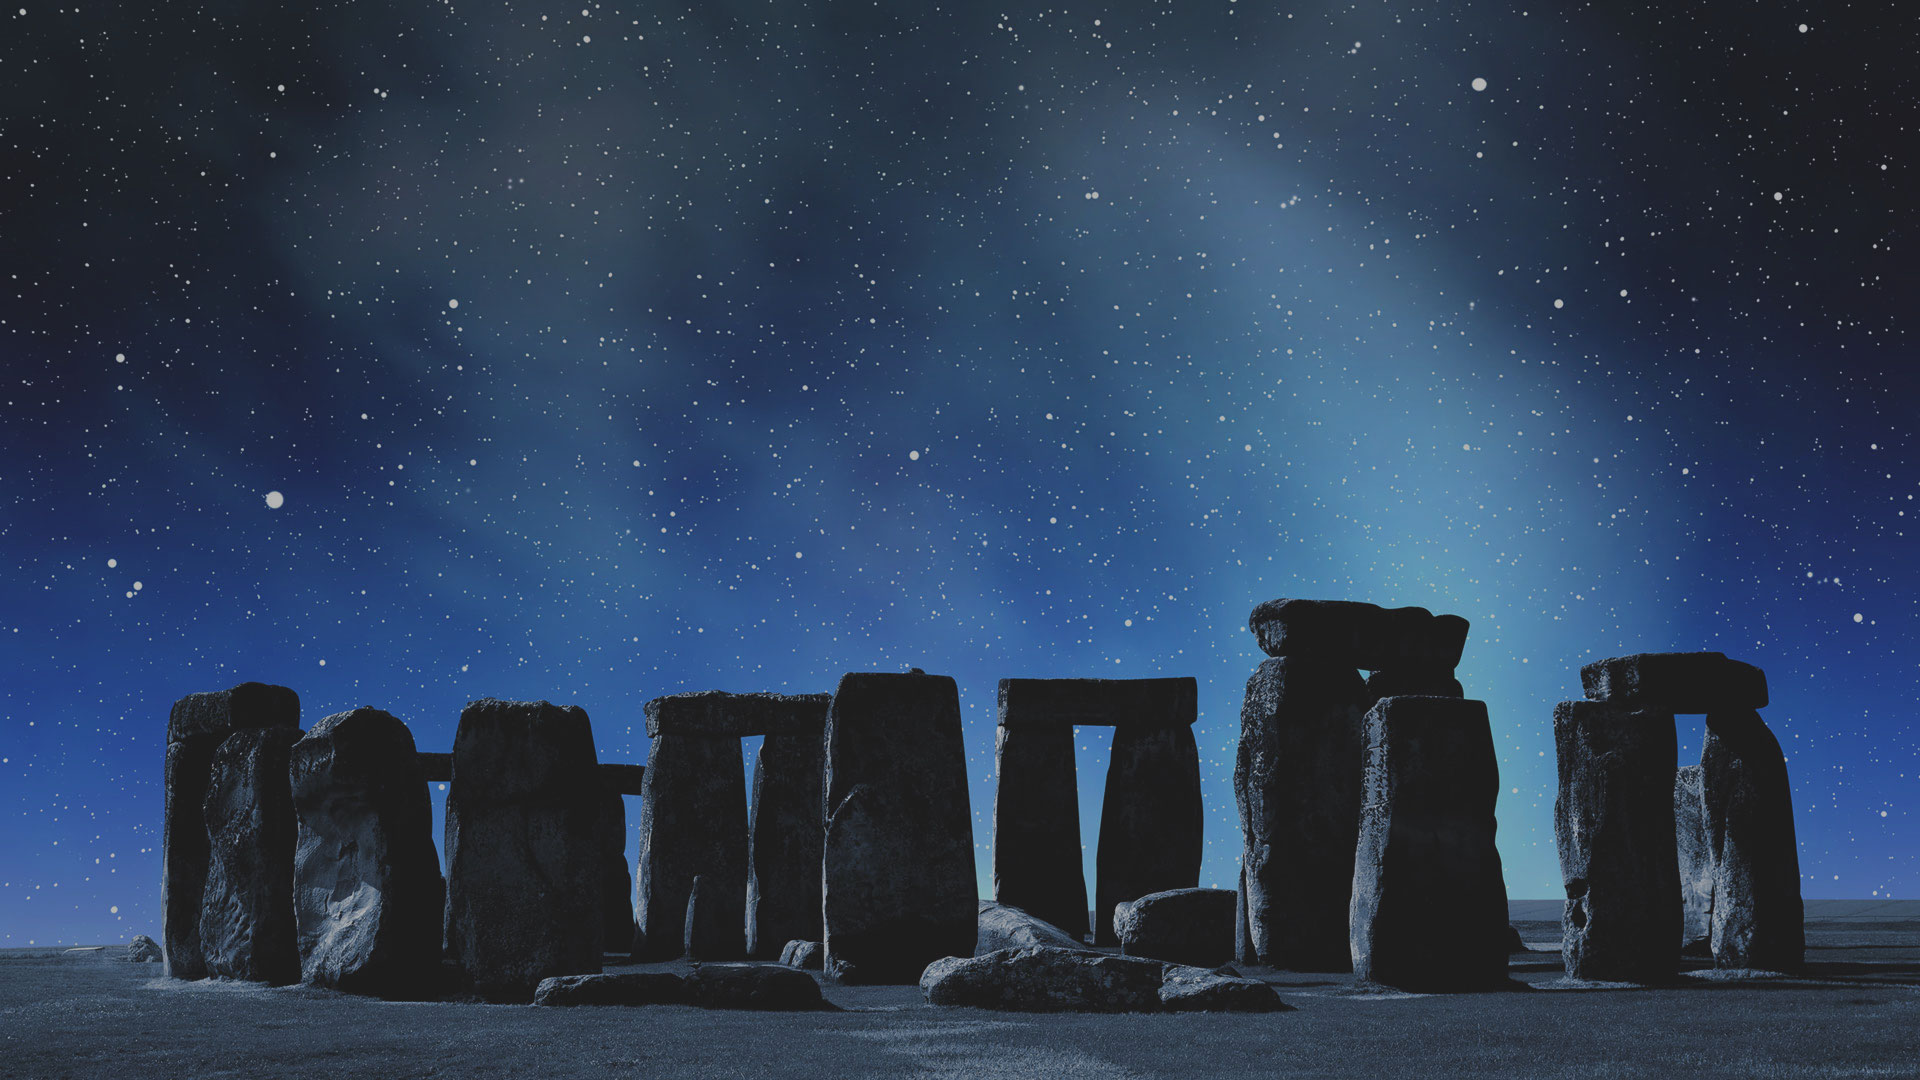
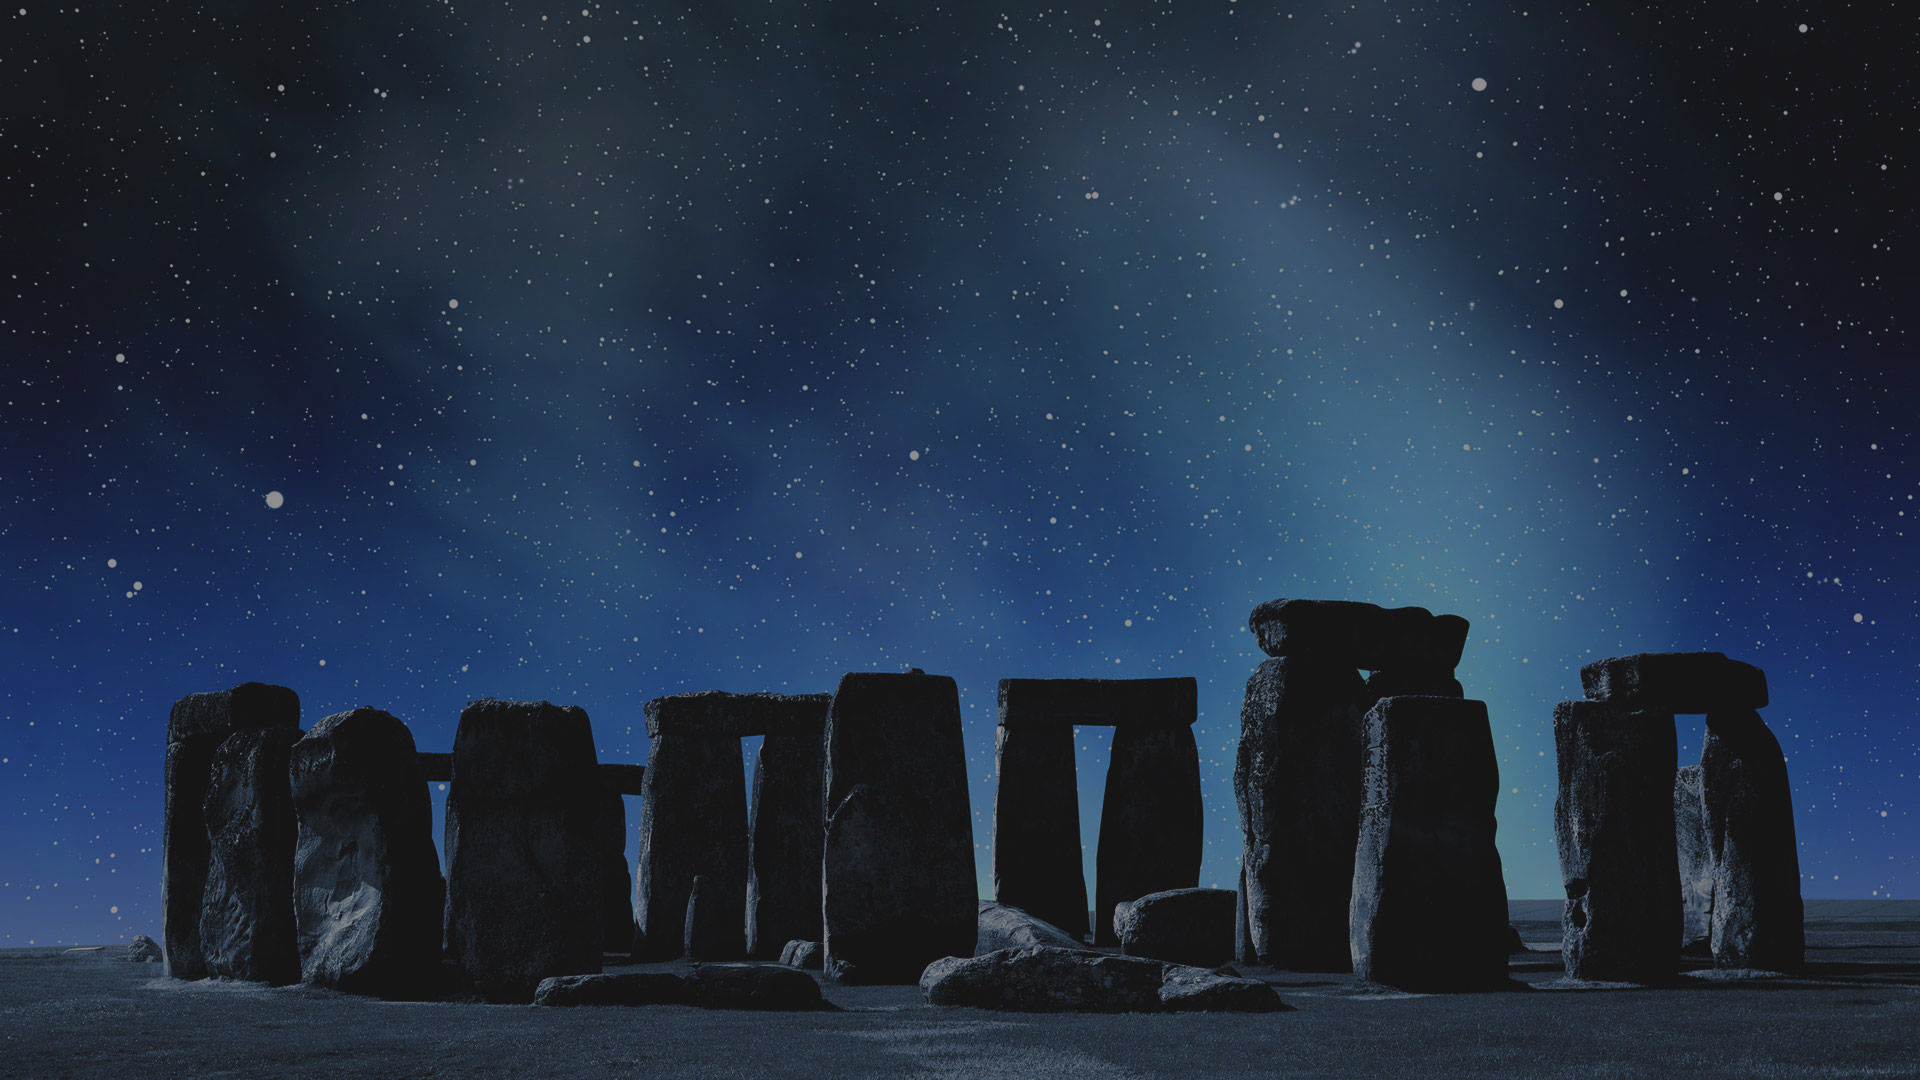
response hotfix*

diff --git a/socioprophet-web/client/src/components/landing/scss/landing.scss b/socioprophet-web/client/src/components/landing/scss/landing.scss
@@ -36,6 +36,16 @@
   color: #fff;
 }
 
+@media (max-width: 450px) {
+  .landing__header__begin {
+    margin-right: 10px;
+  }
+
+  .landing__header__login {
+    margin-right: 0px;
+  }
+}
+
 .landing__header__login__avatar {
   font-size: 16px;
   cursor: pointer;
@@ -95,9 +105,13 @@
   height: 600px;
   color: #fff;
   text-align: center;
-  opacity: 0.9;
 }
 
+@media (max-width: 550px) {
+  .landing__container {
+    background-image: url('../../../../public/images/dashboard-temp-background.jpg');
+  }
+}
 @media (max-width: 500px) {
   .landing__container {
     height: 550px;
@@ -121,11 +135,11 @@
   }
 }
 
-@media (max-width: 480px) {
-  .landing__container__main__logo {
-    margin-top: 120px;
-  }
-}
+// @media (max-width: 480px) {
+//   .landing__container__main__logo {
+//     margin-top: 120px;
+//   }
+// }
 
 .landing__container__main__subtitle {
   padding-top: 15px;
@@ -146,7 +160,7 @@
   }
 }
 
-@media (max-width: 440px) {
+@media (max-width: 480px) {
   .landing__container__main__subtitle {
     padding: 0px 15px 0px 15px;
     line-height: 25px;
@@ -162,10 +176,10 @@
   flex-wrap: wrap;
 }
 
-@media (max-width: 500px) {
+@media (max-width: 530px) {
   .landing__container__main__email {
     display: grid;
-    margin-top: 5px;
+    margin-top: 25px;
   }
 }
 
@@ -177,13 +191,18 @@
   height: 54px;
 }
 
-@media (max-width: 500px) {
+@media (max-width: 530px) {
   .landing__container__main__email__field {
     margin-right: 0;
-    width: 180px;
+    // width: 180px;
+
+    input {
+      text-align: center;
+      margin-top: 10px;
+    }
   }
   .btn__container {
-    margin-top: 20px;
+    margin-top: 40px;
   }
 }
 
@@ -201,6 +220,12 @@
   font-weight: 800;
 }
 
+@media (max-width: 530px) {
+  .landing__container__main__email__field__error {
+    text-align: center;
+  }
+}
+
 @media (max-width: 450px) {
   .landing__container__main__email__field__error {
     margin-top: 10px;
@@ -213,7 +238,7 @@
   display: flex;
 }
 
-@media (max-width: 500px) {
+@media (max-width: 530px) {
   .landing__container__main__login {
     display: none;
   }

diff --git a/socioprophet-web/client/src/components/header/scss/header.scss b/socioprophet-web/client/src/components/header/scss/header.scss
@@ -31,6 +31,12 @@
         z-index: 1000000;
       }
 
+      @media (max-width: 380px) {
+        .header__logo__fish {
+          display: none;
+        }
+      }
+
       .header__logo__title {
         text-decoration: none;
         // color: #fff;
@@ -44,15 +50,27 @@
 
       .float {
         float: right;
+        justify-content: space-between;
+
+        .header__links__item {
+          font-weight: 600;
+          font-size: 14px;
+          height: $nav-height;
+          line-height: $nav-height;
+          width: 70px;
+          float: left;
+
+          .header__links__item__blog {
+            text-decoration: none;
+            cursor: pointer;
+          }
+        }
       }
-      .header__links__item {
-        text-decoration: none;
-        font-weight: 600;
-        font-size: 14px;
-        height: $nav-height;
-        line-height: $nav-height;
-        padding-right: 80px;
-        float: left;
+
+      @media (max-width: 540px) {
+        .float {
+          display: none;
+        }
       }
 
       .header__links__list {

diff --git a/socioprophet-web/client/src/components/header/Header.tsx b/socioprophet-web/client/src/components/header/Header.tsx
@@ -39,14 +39,16 @@ const Header = ({ children }: Props) => {
         <div className="header__links">
           <div className="header__links__list">{children}</div>
           <div className="float">
-            <a
-              className={`header__links__item ${themeClass}`}
-              href="https://socioprophet.blog"
-              target="_blank"
-              rel="noopener"
-            >
-              Blog
-            </a>
+            <div className={`header__links__item ${themeClass}`}>
+              <a
+                className={`header__links__item__blog ${themeClass}`}
+                href="https://socioprophet.blog"
+                target="_blank"
+                rel="noopener"
+              >
+                Blog
+              </a>
+            </div>
           </div>
         </div>
       </nav>

diff --git a/socioprophet-web/client/src/components/dashboard/profile/ThemeContext.tsx b/socioprophet-web/client/src/components/dashboard/profile/ThemeContext.tsx
@@ -12,7 +12,7 @@ export const useDarkMode = () => {
 };
 
 export const ThemeProvider = ({ children }: Props) => {
-  const [theme, setTheme] = useState('light');
+  const [theme, setTheme] = useState('dark');
   const [componentMounted, setComponentMounted] = useState(false);
 
   const setMode = (mode: string) => {
@@ -33,7 +33,7 @@ export const ThemeProvider = ({ children }: Props) => {
     if (localTheme) {
       setTheme(localTheme);
     } else {
-      setMode('light');
+      setMode('dark');
     }
     setComponentMounted(true);
   }, []);

diff --git a/socioprophet-web/client/src/components/dashboard/scss/alpha.scss b/socioprophet-web/client/src/components/dashboard/scss/alpha.scss
@@ -78,7 +78,6 @@
     height: 100%;
     color: #fff;
     text-align: center;
-    opacity: 0.8;
   }
 
   .alpha__container__logo {
